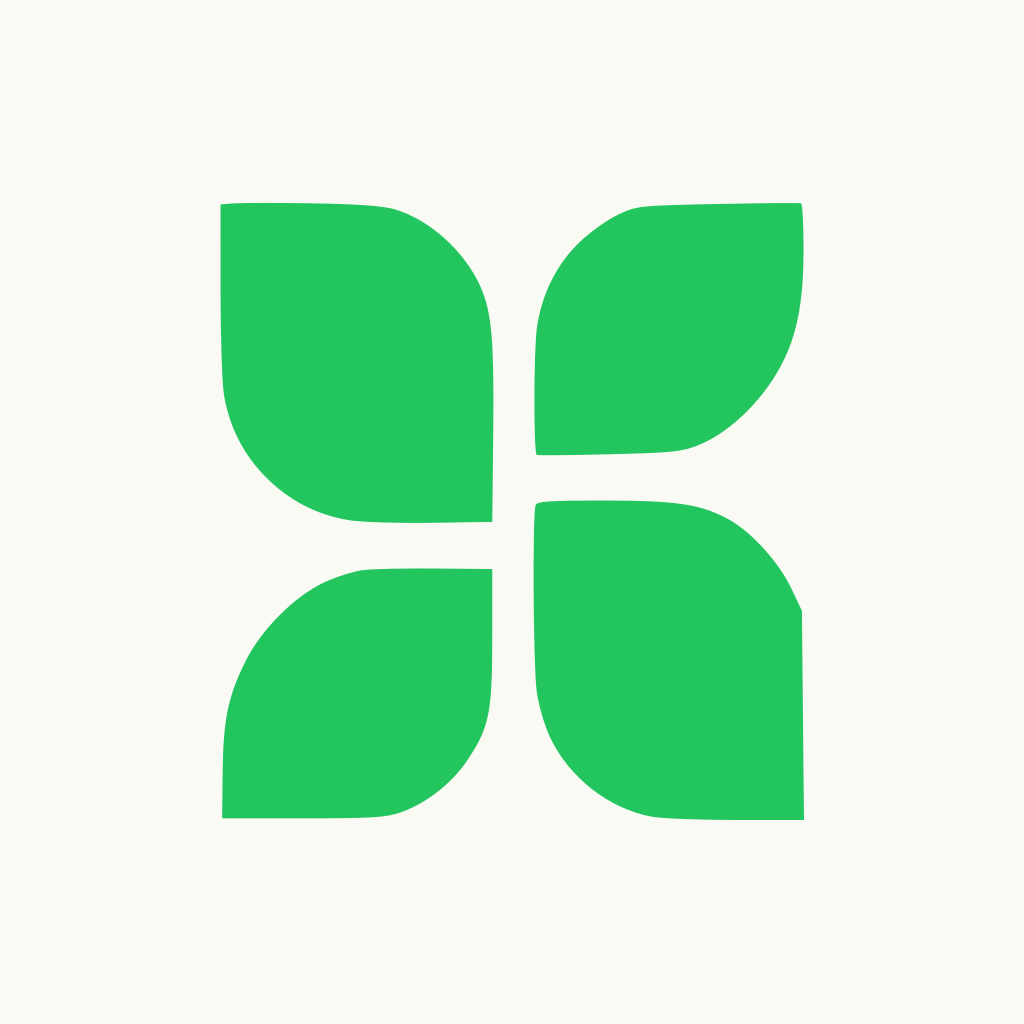
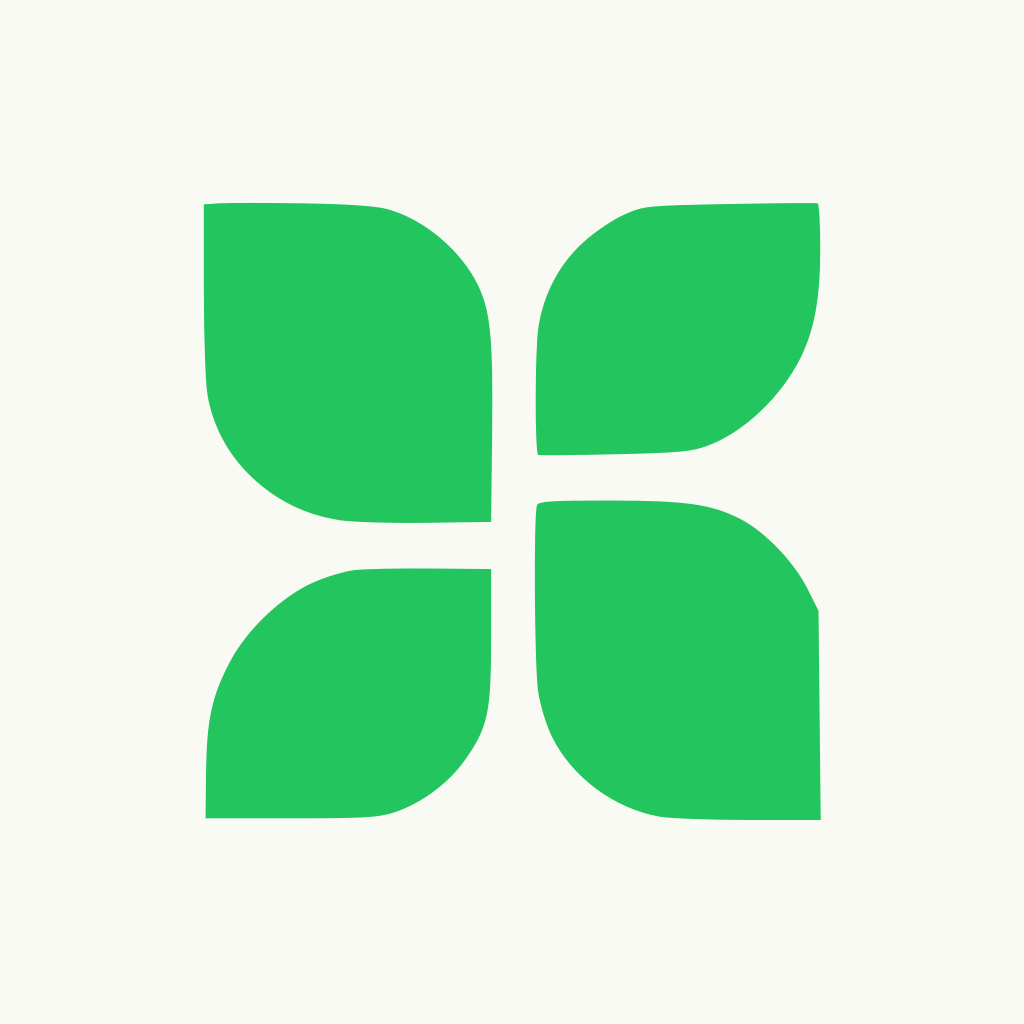
Square the Mint Shelf mark proportions

diff --git a/README.md b/README.md
@@ -28,6 +28,7 @@ The mark is always `#22c55e`; there are no approved black, white, gradient,
 outlined, or alternate-color mark variants. In the primary logo, the name uses
 the light-theme `onSurface` color, `#1a1c19`. If the mark is not visually
 distinct on a surface, change the surface or placement rather than recoloring it.
+The mark's visible outer bounds form a centered 1:1 square.
 
 Keep clear space equal to at least one quarter of the mark's visible width on
 every side. Render the standalone mark at least 24 CSS pixels wide on screen or